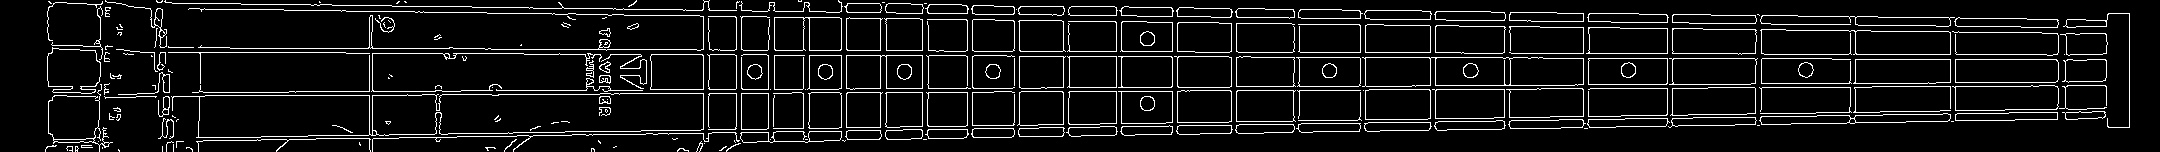
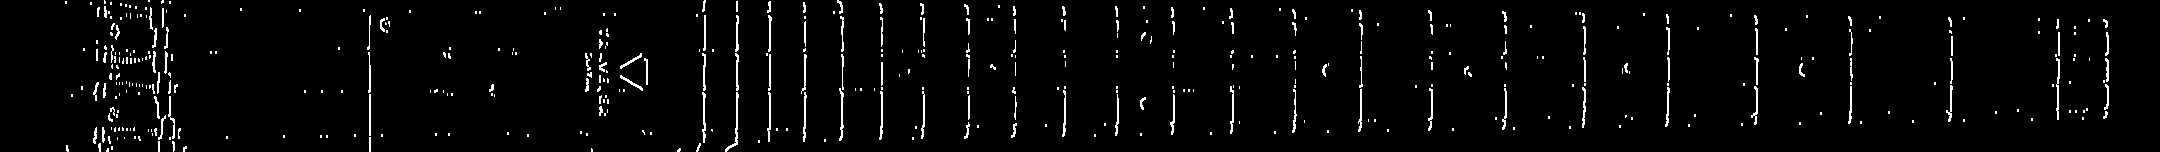
Fretboard detection - first prototype

diff --git a/fretboard/neck.py b/fretboard/neck.py
@@ -89,42 +89,27 @@ def rotate(image, angle, center=None, scale=1.0):
     return rotated
 
 def detect_frets(img):
+    min_length = 4
+    max_gap = 0
     blur = cv.GaussianBlur(img, (5,5), 0)
     (thresh, img_bw) = cv.threshold(blur, 100, 255, cv.THRESH_BINARY | cv.THRESH_OTSU)
-    edges = cv.Sobel(blur, cv.CV_8U, 0, 1, 3)
-    return cv.HoughLines(img_bw, 0.25, np.pi/180, 100)
+    edges = cv.Sobel(img_bw, cv.CV_8U, 1, 0, 5)
+    cv.imwrite('edges.jpg', edges)
+    return cv.HoughLinesP(edges, 1, np.pi / 180, 10, min_length, max_gap)
     
 
 def detect_strings(img):
+    min_length = 25
+    max_gap = 5
     blur = cv.GaussianBlur(img, (5,5), 0)
     (thresh, img_bw) = cv.threshold(blur, 100, 255, cv.THRESH_BINARY | cv.THRESH_OTSU)
-    edges = cv.Sobel(blur, cv.CV_8U, 1, 0, 3)
-    return cv.HoughLines(img_bw, 0.25, np.pi/180, 100)
+    edges = cv.Sobel(img_bw, cv.CV_8U, 0, 1, 3)
+    return cv.HoughLinesP(edges, 1, np.pi / 180, 10, min_length, max_gap)
 
 
-def draw_lines(img, lines):
-    x1_old = y1_old = x2_old = y2_old = 0
-    line_distance = 100
-
-    for line in lines:
-        rho,theta = line[0]
-        a = np.cos(theta)
-        b = np.sin(theta)
-        x0 = a*rho
-        y0 = b*rho
-        x1 = int(x0 + 1000*(-b))
-        y1 = int(y0 + 1000*(a))
-        x2 = int(x0 - 1000*(-b))
-        y2 = int(y0 - 1000*(a))
-
-        if abs(x1 - x1_old) > line_distance \
-        and abs(x2 - x2_old) > line_distance \
-        and abs(y2 - y2_old) > line_distance \
-        and abs(y1 - y1_old) > line_distance:
-            cv.line(img, (x1,y1), (x2,y2), (0,0,255), 3)
-        x1_old = x1
-        x2_old = x2
-        y1_old = y1
-        y2_old = y2
+def draw_lines(img, lines, frets=True):
+    for x in range(len(lines)):
+        for x1, y1, x2, y2 in lines[x]:
+            cv.line(img, (x1, y1), (x2, y2), (0, 0, 255), 2)
 
     return img
